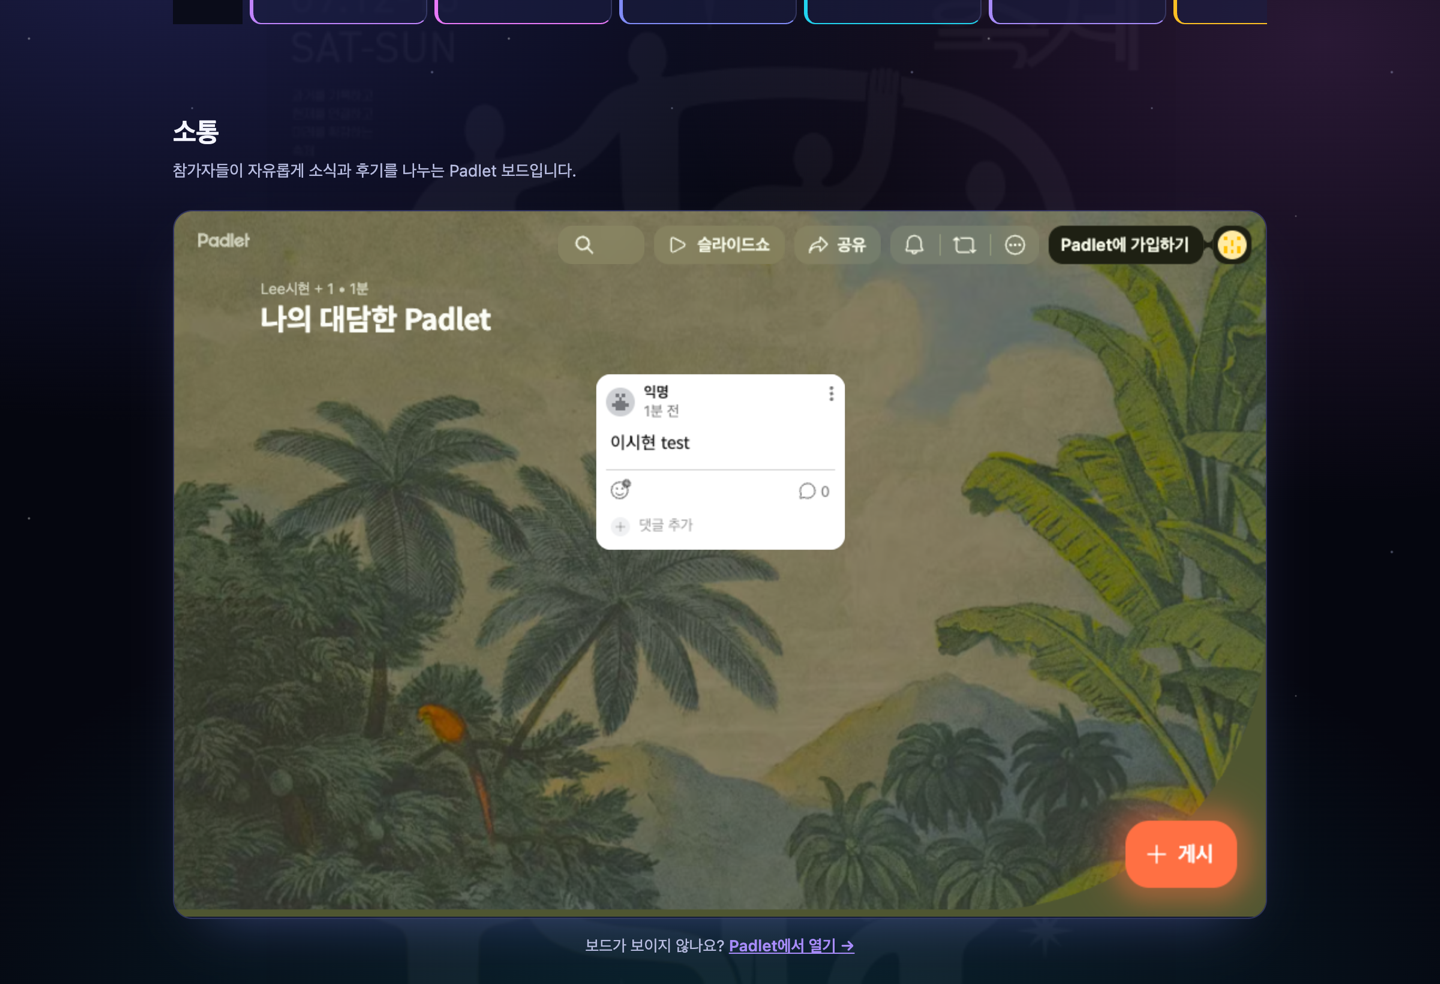
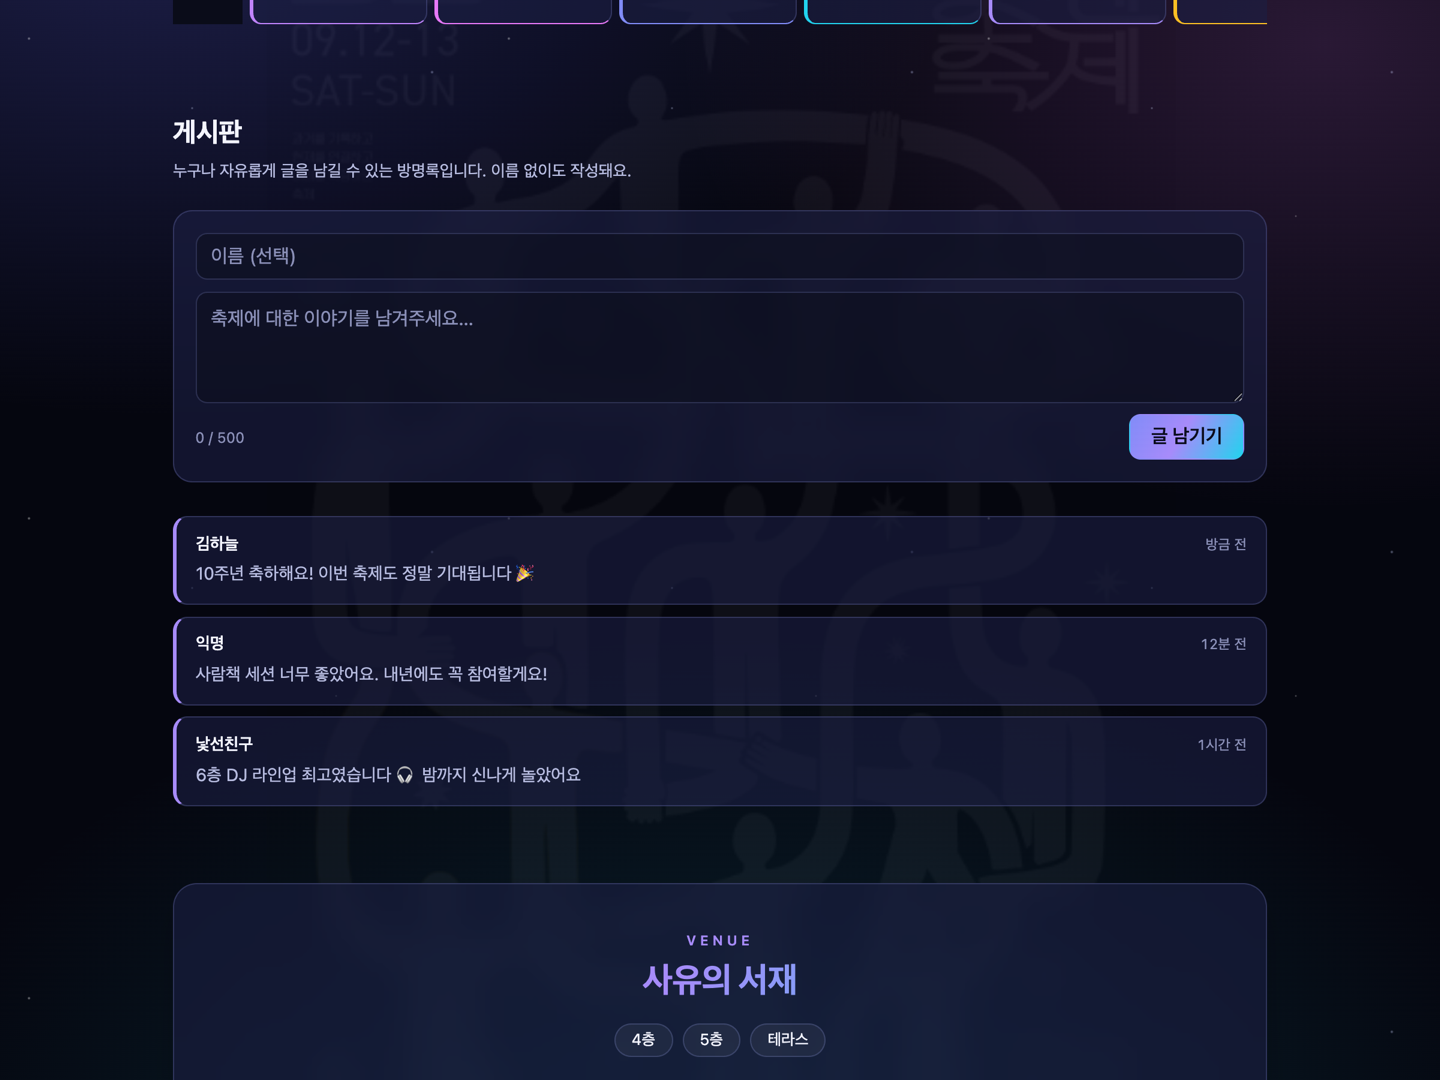
소통(Padlet) 메뉴 제거, 게시판만 유지 + README 스크린샷 교체
Padlet #board 섹션과 소통 네비(헤더·푸터)·미사용 CSS 제거. README 미리보기를
게시판(Supabase) 화면으로 갱신하고 기능 설명도 게시판으로 반영.

diff --git a/src/main/resources/templates/index.html b/src/main/resources/templates/index.html
@@ -22,7 +22,6 @@
         <nav class="nav-links">
             <a href="#programs">프로그램</a>
             <a href="#schedule">행사 일정</a>
-            <a href="#board">소통</a>
             <a href="#guestbook">게시판</a>
             <a href="#location">오시는 길</a>
             <a href="/api/festival">API</a>
@@ -105,24 +104,6 @@
         </div>
     </section>
 
-    <section id="board" class="program board">
-        <div class="program-head">
-            <h2>소통</h2>
-            <p class="program-note">참가자들이 자유롭게 소식과 후기를 나누는 Padlet 보드입니다.</p>
-        </div>
-        <div class="board-embed">
-            <iframe src="https://padlet.com/sihyunleelikelove/padlet-l5buv0ih5lahgepw"
-                    title="낯선대학 축제 소통 Padlet"
-                    loading="lazy" allow="clipboard-write; encrypted-media; fullscreen"
-                    allowfullscreen></iframe>
-        </div>
-        <p class="board-fallback">
-            보드가 보이지 않나요?
-            <a href="https://padlet.com/sihyunleelikelove/padlet-l5buv0ih5lahgepw"
-               target="_blank" rel="noopener noreferrer">Padlet에서 열기 →</a>
-        </p>
-    </section>
-
     <section id="guestbook" class="program guestbook">
         <div class="program-head">
             <h2>게시판</h2>
@@ -176,7 +157,6 @@
             <h3>바로가기</h3>
             <a href="#programs">프로그램</a>
             <a href="#schedule">행사 일정</a>
-            <a href="#board">소통</a>
             <a href="#guestbook">게시판</a>
             <a href="#location">오시는 길</a>
             <a href="/api/festival">API</a>

diff --git a/src/main/resources/static/css/home.css b/src/main/resources/static/css/home.css
@@ -376,20 +376,6 @@ a.pill--link:hover { color: var(--ink); border-color: var(--accent-solid); }
 }
 .zone-staff span:first-child { color: var(--accent-solid); font-weight: 600; }
 
-/* Community board (Padlet embed) */
-.board-embed {
-    width: 100%; height: min(72vh, 720px); min-height: 460px;
-    border-radius: 1rem; overflow: hidden;
-    background: var(--glass); border: 1px solid var(--line);
-    box-shadow: 0 20px 50px -28px rgba(129, 140, 248, 0.5);
-}
-.board-embed iframe { display: block; width: 100%; height: 100%; border: 0; }
-.board-fallback { margin: 0.9rem 0 0; font-size: 0.82rem; color: var(--muted); text-align: center; }
-.board-fallback a { color: var(--accent-solid); font-weight: 600; }
-@media (max-width: 640px) {
-    .board-embed { height: 78vh; min-height: 420px; }
-}
-
 /* Guestbook (Supabase-backed) */
 .gb-form {
     display: flex; flex-direction: column; gap: 0.6rem; margin: 0 0 1.75rem;

diff --git a/README.md b/README.md
@@ -1,7 +1,7 @@
 # natten-home
 
 낯선대학 10주년 축제(낯텐축제) 홈 서비스. Spring Boot로 만든 축제 랜딩 페이지 —
-프로그램·행사 일정(시간×존 매트릭스)·소통(Padlet 보드)·오시는 길을 제공하고,
+프로그램·행사 일정(시간×존 매트릭스)·게시판(방명록)·오시는 길을 제공하고,
 `/api/festival` JSON API로 다른 notten 서비스가 축제 정보를 소비할 수 있습니다.
 
 🔗 **라이브: https://shlee-dev012.github.io/natten_home/**
@@ -11,12 +11,12 @@
 
 ![natten-home 데스크톱 화면](docs/screenshot-desktop.png)
 
-**소통 — 참가자 Padlet 보드를 페이지 안에 임베드**
+**게시판 — 누구나 글을 남기는 방명록 (Supabase 백엔드, 별도 서버·DB 세팅 불필요)**
 
-![소통 메뉴 (Padlet 보드)](docs/screenshot-board.png)
+![게시판 (Supabase 방명록)](docs/screenshot-board.png)
 
 <p align="center">
-  <img src="docs/screenshot-mobile.png" width="320" alt="소통 메뉴 모바일 화면"/>
+  <img src="docs/screenshot-mobile.png" width="320" alt="게시판 모바일 화면"/>
 </p>
 
 ## 기술 스택
